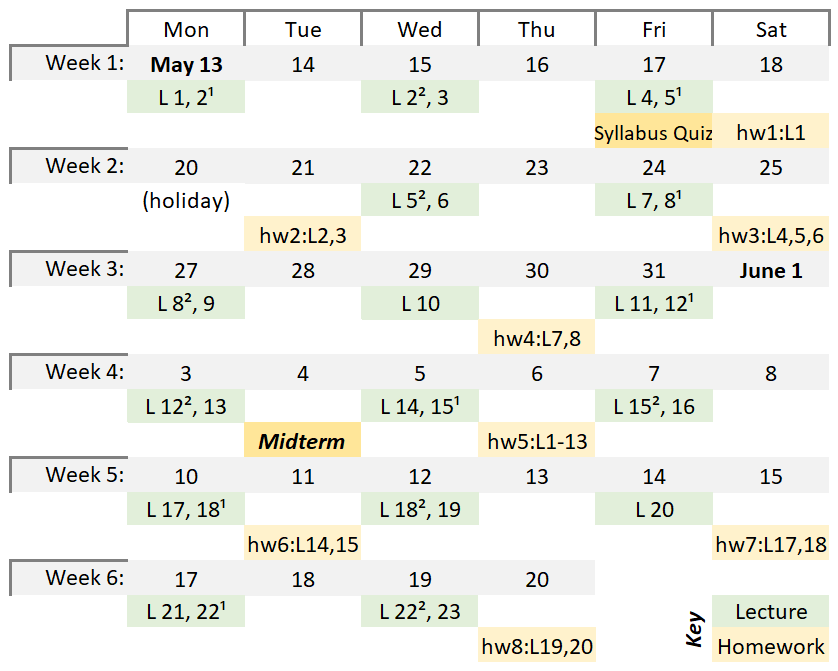
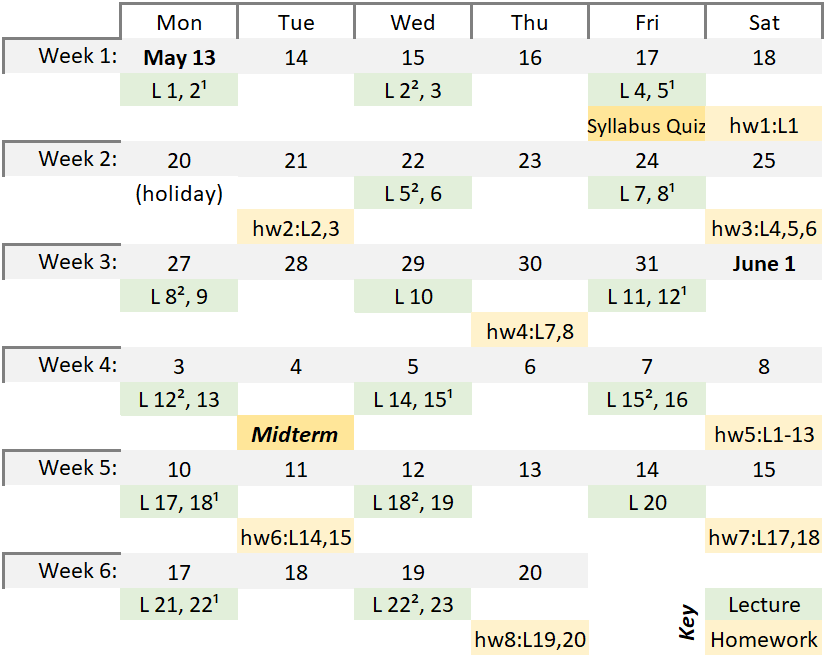
Update schedule: more time for hw5 after midterm
The schedule remains unchanged for hw 6, 7, 8

diff --git a/README.md b/README.md
@@ -77,7 +77,7 @@ The following sections provide for more detailed course schedule.
 | hw3 | May 25, 23:00 |   Github repo | PrairieLearn |
 | hw4 | May 30, 23:00 |   Github repo | PrairieLearn |
 | **Midterm** | **_June 4_, 18:00**<br>Details on Piazza | [PrairieTest](https://ca.prairietest.com) | PrairieTest (in-person) |
-| hw5 | June 06, 23:00 |   Github repo | PrairieLearn |
+| hw5 | June 08, 23:00 |   Github repo | PrairieLearn |
 | hw6 | June 11, 23:00 |   Github repo | PrairieLearn |
 | hw7 | June 15, 23:00 |   Github repo | PrairieLearn |
 | hw8 | June 20, 23:00 |   Github repo | PrairieLearn |
